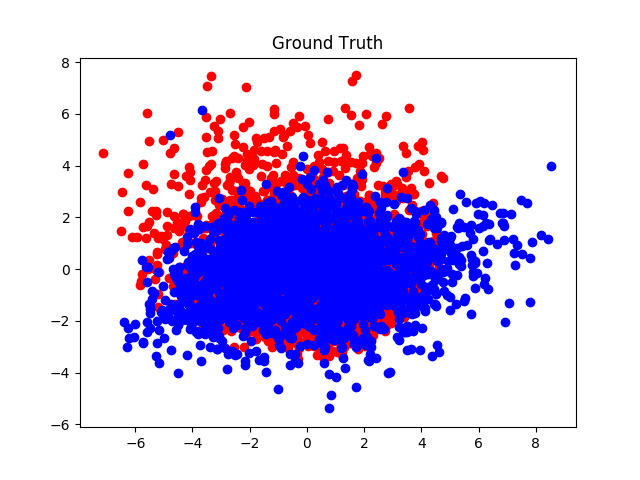
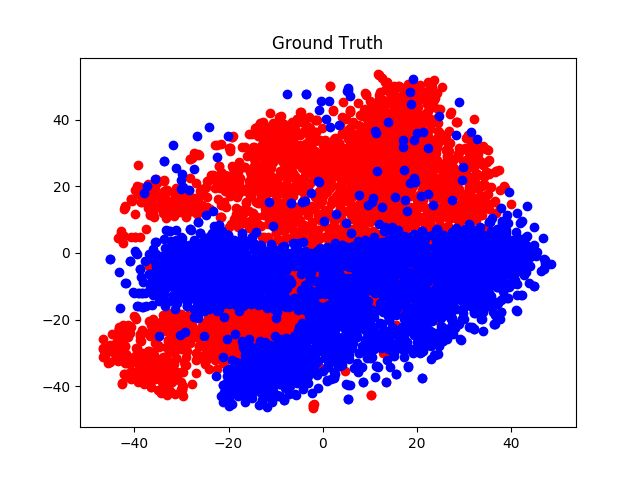
fix

diff --git a/hw7/manager.py b/hw7/manager.py
@@ -128,6 +128,7 @@ class Manager():
 
     def test(self, data):
         from sklearn.cluster import KMeans
+        from sklearn.manifold import TSNE
         from sklearn.decomposition import PCA
         import numpy as np
         from matplotlib import pyplot as plt
@@ -148,8 +149,9 @@ class Manager():
         celebA_id = 1
         vector_test = vector_test[-5000:]
         label_test  = cluster_ids[-5000:]
-        pca = PCA(n_components= 2, whiten= False, random_state= 1)
-        vector_test = pca.fit_transform(vector_test)
+        #cluster = PCA(n_components= 2, whiten= True, random_state= 1)
+        cluster = TSNE(n_components= 2)
+        vector_test = cluster.fit_transform(vector_test)
 
         plt.title('Prediction')
         plt.scatter(vector_test[label_test != celebA_id][:,0], vector_test[label_test != celebA_id][:, 1], c= 'r')
